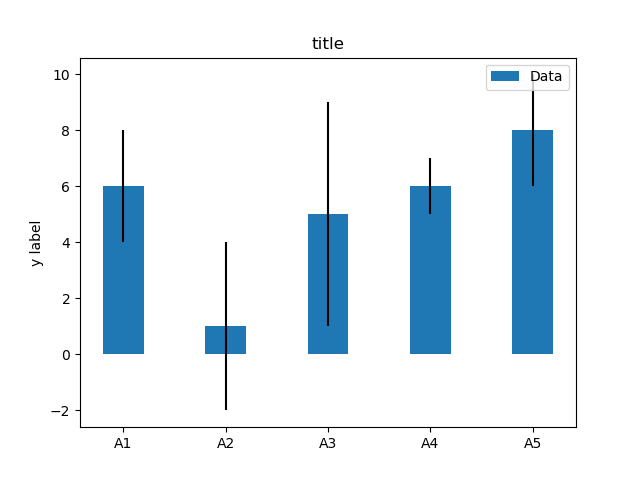
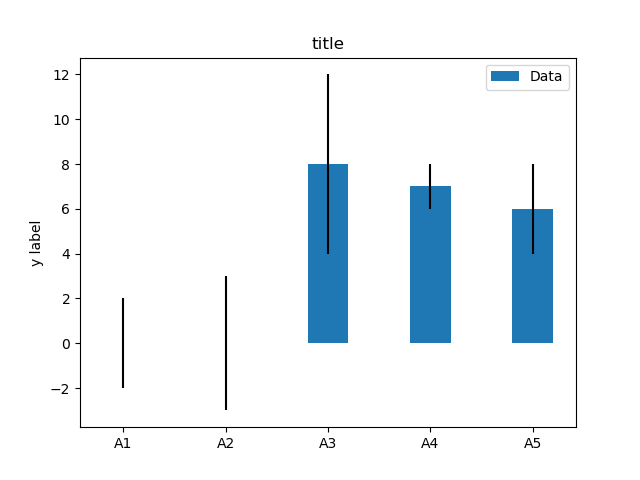
first commit

diff --git a/example.py b/example.py
@@ -2,7 +2,7 @@ import numpy as np
 import matplotlib.pyplot as plt
 
 labels = ['A1', 'A2', 'A3', 'A4', 'A5']
-m_means = [6,1,5,6,8]
+m_means = [0,0,8,7,6]
 m_std = [2, 3, 4, 1, 2]
 width = 0.40       # the width of the bars
 

diff --git a/README.md b/README.md
@@ -1,4 +1,4 @@
-# Matplotlib no 132 
+# Matplotlib no 133 
 
 python example
 
